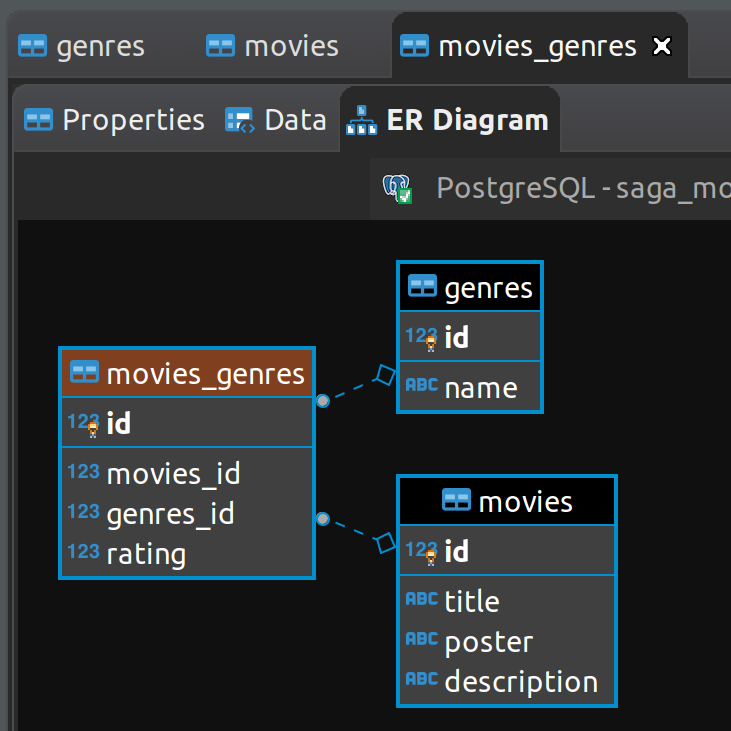
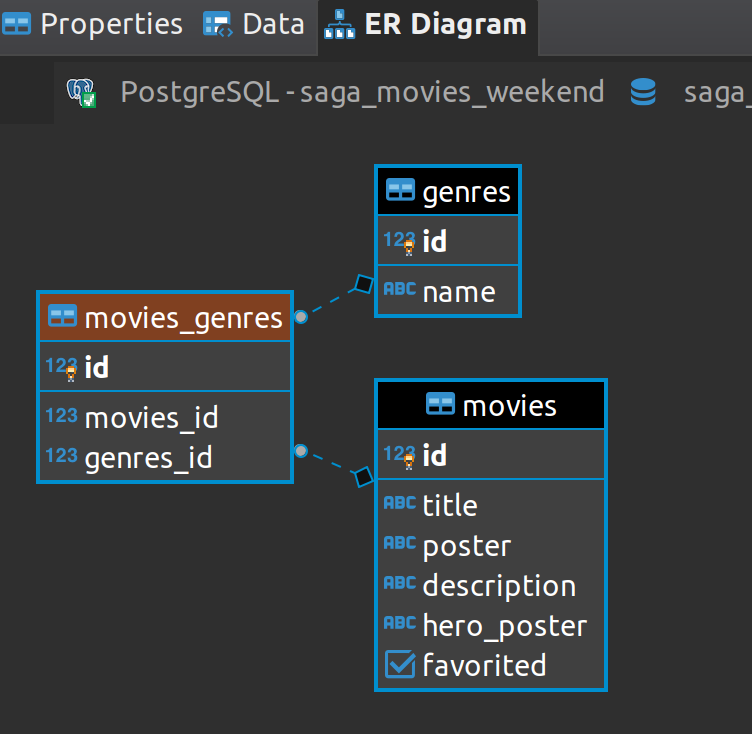
favorite button working, sending boolean to DB and displaying on DOM

diff --git a/src/components/MovieDisplay/MovieDisplay.js b/src/components/MovieDisplay/MovieDisplay.js
@@ -21,15 +21,21 @@ class MovieDisplay extends Component {
         title: movie.title,
         poster: movie.poster,
         hero: movie.hero_poster,
-        description: movie.description
+        description: movie.description,
+        favorited: movie.favorited
       }
     });
   };
 
-  addFav = () => {
-    console.log("in addFav");
+  addFav = (thisOne) => {
+    console.log("in addFav", thisOne);
+    this.props.dispatch({ type: "EDIT_FAV", payload: {id: thisOne, bool: true }});
   };
  
+  removeFav = (thisOne) => {
+    console.log("in removeFav", thisOne);
+    this.props.dispatch({ type: "EDIT_FAV", payload: {id: thisOne, bool: false }});
+  };
   
   render() {
     return (
@@ -60,9 +66,16 @@ class MovieDisplay extends Component {
                       </button>
                       <br />
                       <br></br>
-                      <button onClick={() => this.addFav()}>
-                        Add To Favorites
-                      </button>
+                        {movie.favorited === false &&
+                        <button onClick={() => this.addFav(movie.id)}>
+                          Add To Favorites
+                        </button>
+                        }
+                        {movie.favorited === true &&
+                        <button onClick={() => this.removeFav(movie.id)}>
+                          Remove From Favorites
+                        </button>
+                        }
                       <br></br>
                     </div>
                   </div>

diff --git a/src/index.js b/src/index.js
@@ -15,7 +15,8 @@ import createSagaMiddleware from 'redux-saga';
 // Create the rootSaga generator function
 function* rootSaga() {
     yield takeEvery('GET_MOVIES', getMovie);
-    yield takeEvery('EDIT_TITLE', editTitle)
+    yield takeEvery('EDIT_TITLE', editTitle);
+    yield takeEvery('EDIT_FAV', editFav);
 }
 
 function* getMovie(){
@@ -25,9 +26,19 @@ function* getMovie(){
 }
 
 function* editTitle(edit){
-    console.log('this saga came from movie/PUT, sending: ', edit.payload);
+    console.log('this saga came from movie/title/PUT, sending: ', edit.payload);
   try {
-    yield axios.put(`/movie/${edit.payload.sendId}`, edit.payload);
+    yield axios.put(`/movie/title/${edit.payload.sendId}`, edit.payload);
+    yield put({type: 'GET_MOVIES'});
+  } catch (error) {
+    console.log(error);
+  }
+}
+
+function* editFav(edit){
+    console.log('this saga came from movie/fav/PUT, sending: ', edit.payload);
+  try {
+    yield axios.put(`/movie/fav/${edit.payload}`, edit.payload);
     yield put({type: 'GET_MOVIES'});
   } catch (error) {
     console.log(error);

diff --git a/server/routes/movie.router.js b/server/routes/movie.router.js
@@ -49,11 +49,25 @@ router.delete('/:id', (req, res) => {
 //     });
 });
 
-router.put('/:id', (req, res) => {
-  console.log('IN PUT WITH:', req.body, req.params);
+router.put('/title/:id', (req, res) => {
+  console.log('IN PUT TITLE WITH:', req.body, req.params);
   console.log('r.b.change: ', req.body.change.edits.title, "r.p.id :", req.params.id);
   const queryText = `UPDATE "movies" SET "title" =$1, "description" =$2 WHERE id=$3;`;
    const queryValues = [req.body.change.edits.title, req.body.change.edits.description, req.params.id]
+  pool.query(queryText, queryValues)
+    .then(() => {
+      res.sendStatus(200);
+    })
+    .catch(err => {
+      console.log("Error changing input category", err);
+      res.sendStatus(500);
+    });
+})
+
+router.put('/fav/:id', (req, res) => {
+  console.log('IN PUT TITLE WITH:', req.body, req.params.id);
+   const queryText = `UPDATE "movies" SET "favorited" =$1 WHERE id=$2;`;
+    const queryValues = [req.body.bool, req.body.id]
   pool.query(queryText, queryValues)
     .then(() => {
       res.sendStatus(200);
